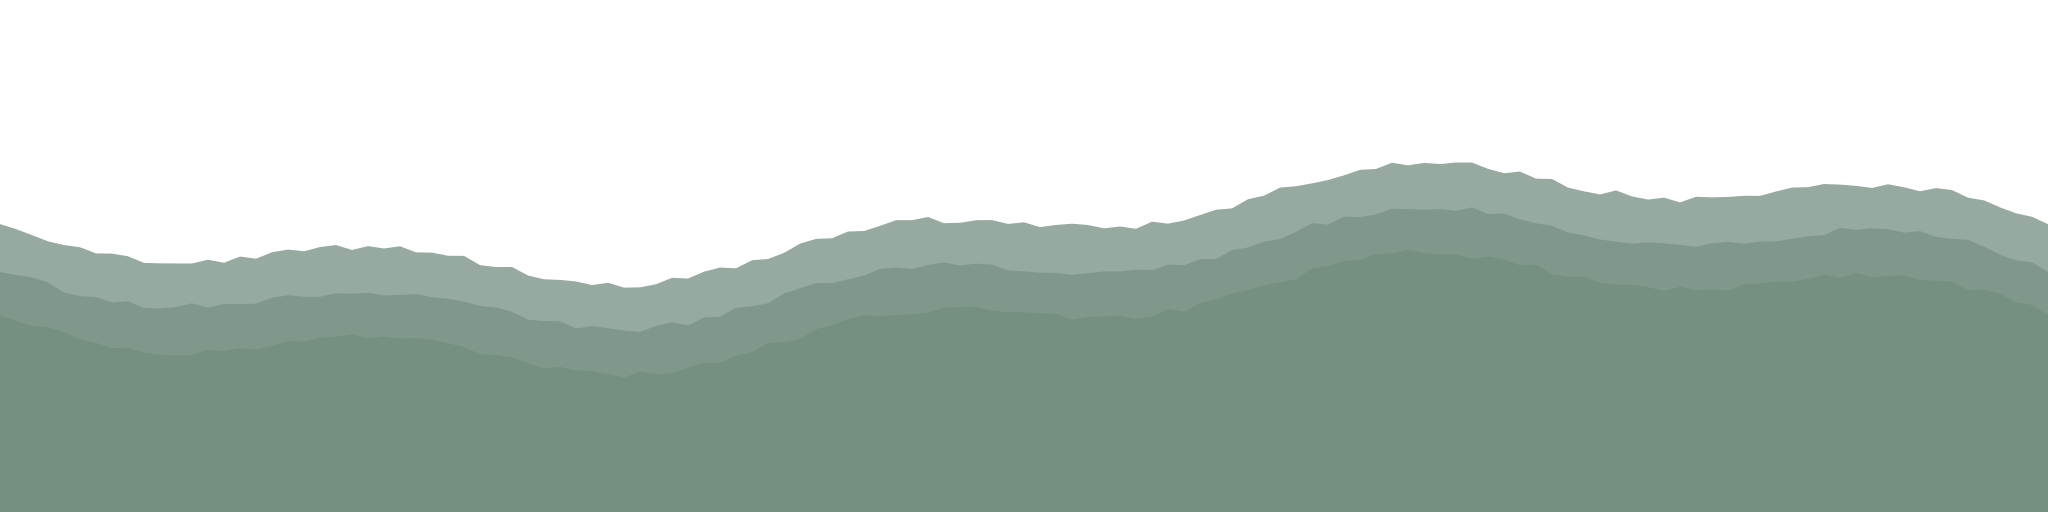
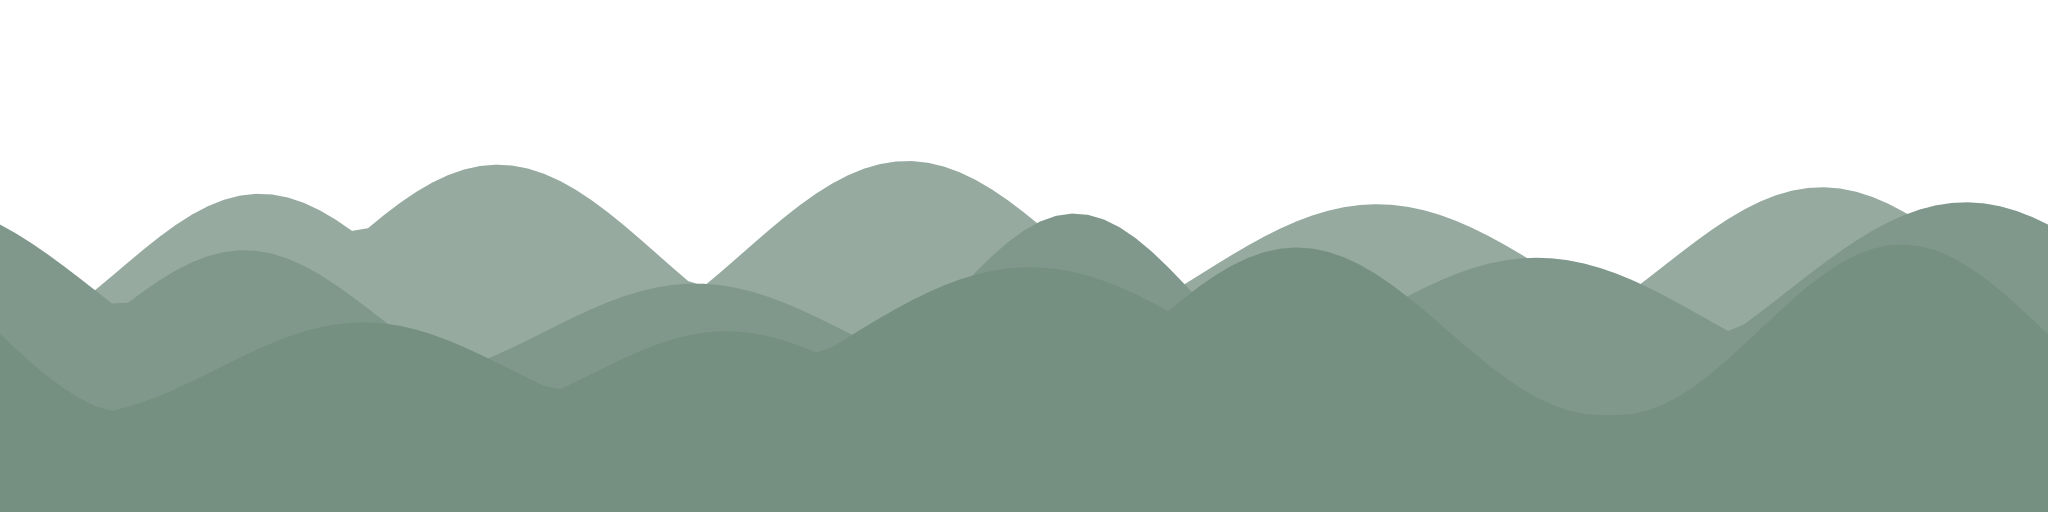
fix(render): compose independent river horizon ridges

diff --git a/tools/experiments/far-backdrop-data.js b/tools/experiments/far-backdrop-data.js
@@ -7,13 +7,15 @@ export function backdropProfile(biome,layer){
  const step=biome==='savanna'?8:16,r=random(1471+index*193+layer*277),jitter=Array.from({length:2048/step},()=>r()*7),points=[];
  // Broad separated ridges and short mesa caps, independently composed per layer.
  // Avoid three phase-aligned sine waves that read as parallel horizontal bands.
+ const riverRidges=biome==='grand_river'?Array.from({length:5},(_,i)=>({center:(i+.1+r()*.8)*2048/5,width:210+r()*170,height:100+r()*95-layer*10})):null;
  const ridges=biome==='savanna'?Array.from({length:7},(_,i)=>({center:(i+.15+r()*.7)*2048/7,width:125+r()*110,height:105+r()*95-layer*12,cap:.10+r()*.17})):null;
  for(let x=0;x<=2048;x+=step){const wrap=x%2048;let height;
   if(ridges){let relief=0;for(const ridge of ridges){const dx=Math.min(Math.abs(wrap-ridge.center),2048-Math.abs(wrap-ridge.center)),p=dx/ridge.width;relief=Math.max(relief,ridge.height*(p<ridge.cap?1:Math.max(0,1-(p-ridge.cap)/(1-ridge.cap))));}height=315+layer*42-relief+Math.sin(wrap*Math.PI*2/2048*(5+layer)) * 3;}
+  else if(riverRidges){let relief=0;for(const ridge of riverRidges){const dx=Math.min(Math.abs(wrap-ridge.center),2048-Math.abs(wrap-ridge.center)),p=dx/ridge.width;relief=Math.max(relief,p<1?ridge.height*(1+Math.cos(p*Math.PI))*.5:0);}height=345+layer*35-relief;}
   else if(biome==='canyons'||biome==='desert'){const mesa=Math.floor(wrap/64);height=170+(mesa%3)*43+jitter[Math.floor(wrap/step)]+layer*55;}
   else if(biome==='volcanoes'){let mountain=0;for(let peak=0;peak<8;peak++){const center=128+peak*256,dx=Math.min(Math.abs(wrap-center),2048-Math.abs(wrap-center));mountain=Math.max(mountain,Math.max(0,1-dx/150)*(140+20*Math.cos(peak)));}height=300-mountain+layer*34;}
   else height=220+Math.sin(wrap*Math.PI*2/2048)*46+Math.sin(wrap*Math.PI*2/512)*18+layer*45+jitter[Math.floor(wrap/step)];
-  points.push([x,biome==='savanna'?Number(height.toFixed(3)):height]);
+  points.push([x,(biome==='savanna'||riverRidges)?Number(height.toFixed(3)):height]);
  }
  return points;
 }

diff --git a/tests/far-backdrop-data.test.js b/tests/far-backdrop-data.test.js
@@ -17,3 +17,12 @@ test('savanna baked facets retain a solid body under the skyline instead of intr
 test('deployed backdrops match the offline generator and retain transparent sky at fixed resolution',async()=>{
  for(const biome of backdropBiomes){const actual=await fs.readFile(`public/assets/far-vegetation/${biome}-backdrop.webp`),expected=await sharp(Buffer.from(backdropSvg(biome))).webp({lossless:true,effort:4}).toBuffer();assert.deepEqual(actual,expected,biome);const {data,info}=await sharp(actual).raw().toBuffer({resolveWithObject:true});assert.equal(info.width,2048);assert.equal(info.height,512);assert.equal(info.channels,4);assert.ok(data.some((v,i)=>i%4===3&&v===0));assert.ok(data.some((v,i)=>i%4===3&&v===255));}
 });
+
+test('river skyline uses independent broad rolling relief without parallel low bands',()=>{
+ const a=backdropProfile('grand_river',0),b=backdropProfile('grand_river',1);
+ const delta=a.map((p,i)=>b[i][1]-p[1]);
+ assert.ok(Math.max(...delta)-Math.min(...delta)>100);
+ assert.ok(Math.max(...a.map(p=>p[1]))-Math.min(...a.map(p=>p[1]))>150);
+ // Rounded hills have gradual adjacent changes; no isolated thin vertical peaks.
+ assert.ok(a.slice(1).every((p,i)=>Math.abs(p[1]-a[i][1])<25));
+});

diff --git a/docs/qa/far-biome-integration/README.md b/docs/qa/far-biome-integration/README.md
@@ -44,33 +44,33 @@ A1/A2 drift is about 9%; B1 is nearly the same as A2. This demonstrates fewer su
 
 ## Native visual smoke checks (main b93df1a integrated)
 
-All files listed below come from one Mapungubwe village, seed 712, no gameplay saves. Four profiles are represented, not a full biome × culture × quality matrix. Native camera operations also clamp distance/height and may cross chunk borders; the JSON reports actual coordinates.
+All files listed below come from one Mapungubwe village, seed 712, no gameplay saves. Four profiles are represented, not a full biome Ã— culture Ã— quality matrix. Native camera operations also clamp distance/height and may cross chunk borders; the JSON reports actual coordinates.
 
 | Biome | Quality | Evidence | Observation |
 | --- | --- | --- | --- |
 | Sabana | Medium | `savanna-tree-only-horizon-day/night.png` | Low horizon; backdrop remains too flat/blue. This is an acceptance counterexample. |
-| Gran Cañón | Medium | `canyon-tree-only-day/night.json/png`, `canyon-tree-only-orbit.png` | River and cliff terrain retained. Two resident species. Horizon-button view could enter a cliff; orbit view exposes mesa backdrop. |
+| Gran CaÃ±Ã³n | Medium | `canyon-tree-only-day/night.json/png`, `canyon-tree-only-orbit.png` | River and cliff terrain retained. Two resident species. Horizon-button view could enter a cliff; orbit view exposes mesa backdrop. |
 | Volcanes | Medium | `volcano-tree-only-day/night.json/png`, `volcano-tree-only-moved.png` | Lateral 96 m movement changes region to 192:0; native preparation settles without GL errors. Nearby baked billboards can visibly simplify the silhouette while models prepare. |
 | Manglares | High | `mangrove-high-tree-only-day/night.json/png` | 49 exact terrains and 25 prop chunks; water channels/moss remain native. Angular movement and night phase tested. |
-| Gran Río | Low | `river-low-tree-only-day/dusk.json/png` | Original river near terrain; angular movement and mixed day/night atlas phase. Coarse far shoreline remains approximate. |
+| Gran RÃo | Low | `river-low-tree-only-day/dusk.json/png` | Original river near terrain; angular movement and mixed day/night atlas phase. Coarse far shoreline remains approximate. |
 | Desierto | Very low | `desert-min-tree-only-day/night.json/png`, `desert-min-tree-only-horizon.png` | Native dunes/coarse horizon retained; mesa backdrop visible. Sparse tree population in reference scene. |
 
-Recorded JSON checks show zero world/shader/WebGL errors; no missing-biome asset exception. Static captures are not proof of imperceptible animated transitions. Native 8° atlas elevation is appropriate for distant trees, but the 40–60 m candidate transition remains visibly simplified in elevated/teleported views. Remaining acceptance work: slow approach/retreat and lateral/orbital recordings, delayed-chunk perception, precise far shorelines, backdrop art/composition, independent performance repetitions, mobile/device memory and other cultures. The optional loader is connected but **normal gameplay remains OFF**.
+Recorded JSON checks show zero world/shader/WebGL errors; no missing-biome asset exception. Static captures are not proof of imperceptible animated transitions. Native 8Â° atlas elevation is appropriate for distant trees, but the 40â€“60 m candidate transition remains visibly simplified in elevated/teleported views. Remaining acceptance work: slow approach/retreat and lateral/orbital recordings, delayed-chunk perception, precise far shorelines, backdrop art/composition, independent performance repetitions, mobile/device memory and other cultures. The optional loader is connected but **normal gameplay remains OFF**.
 
-Runtime atlas storage is bounded by active biome (eight 1024² atlases for four species or four for canyon), plus one backdrop. Cancellation tests release every borrowed/owned late resource exactly once; those tests do not measure browser caches, driver residency, decoded CPU images or total game RAM. Distributed atlas transfer is 20,450,296 bytes for all 22 species, not 235 MiB of simultaneous GPU textures.
+Runtime atlas storage is bounded by active biome (eight 1024Â² atlases for four species or four for canyon), plus one backdrop. Cancellation tests release every borrowed/owned late resource exactly once; those tests do not measure browser caches, driver residency, decoded CPU images or total game RAM. Distributed atlas transfer is 20,450,296 bytes for all 22 species, not 235 MiB of simultaneous GPU textures.
 
 ## Slow approach counterexample (after 287099e)
 
 The fixture now has 20-second native-camera paths for approach/retreat, orbit and lateral movement; it selects an unsuppressed slot-0 tree and reports completion and unchanged game state. Only approach has been run so far. `savanna-slow-approach-mid.png` shows selected tree `0:9:2` during approach/retreat with readiness zero; `savanna-slow-approach.json` records final state and preparation counters. The final view is far again, so readiness zero there alone is expected and does not prove a failed near handoff.
 
-The same report contains approximately 100 cancelled preparations per species over the movement versus 10–12 useful completions. This repeated cancellation is an acceptance blocker to investigate, not a successful motion test. One candidate cause is texture preparation re-yielding between already initialized textures on each native packing generation; that hypothesis still needs a repeated native path after correction. No FPS/cost claim is made for this path.
+The same report contains approximately 100 cancelled preparations per species over the movement versus 10â€“12 useful completions. This repeated cancellation is an acceptance blocker to investigate, not a successful motion test. One candidate cause is texture preparation re-yielding between already initialized textures on each native packing generation; that hypothesis still needs a repeated native path after correction. No FPS/cost claim is made for this path.
 
 
 ## Warm-texture preparation isolation (5965323 + temporary alias)
 
 A temporary Vite alias replaced only the GPU preparation helper, leaving the source revision under the serial full-test suite unchanged. The candidate remembers initialized texture wrapper/source versions per renderer, invalidates on disposal/context restoration and keeps compile, zero-pixel draw and fence for every new native packing. Fourteen isolated tests pass, including late cancellation, failed upload, context loss/restoration and listener ownership.
 
-`savanna-cache-approach.json` repeats exactly the same slot-0 tree `0:9:2`, 20-second 140→25→140 m path. The selected tree reaches readiness 1 first at 10.216 s; only 28 of 164 near frames (≤40 m) have readiness 1. Useful preparations at completion: 21/20/19/17; cancelled: 95/89/93/91. No game-state or WebGL errors. These counts show increased useful completions but **do not resolve the continuous-motion transition**.
+`savanna-cache-approach.json` repeats exactly the same slot-0 tree `0:9:2`, 20-second 140â†’25â†’140 m path. The selected tree reaches readiness 1 first at 10.216 s; only 28 of 164 near frames (â‰¤40 m) have readiness 1. Useful preparations at completion: 21/20/19/17; cancelled: 95/89/93/91. No game-state or WebGL errors. These counts show increased useful completions but **do not resolve the continuous-motion transition**.
 
 `savanna-cache-hold.json` adds a three-second stationary hold at 25 m. Readiness 1 occurs first at 10.203 s, with 115 of 261 near frames fully ready. Useful preparations: 32/28/28/23; cancelled: 76/73/74/75. This verifies that the handoff can settle when stationary; renewed motion still invalidates it. Counters are not a performance benchmark, and the duration/near-frame counts differ between these two paths.
 
@@ -87,13 +87,13 @@ The signature now includes only color renderables for the corresponding tree slo
 
 The serial full suite on the preceding runtime/base (main b93df1a integrated, before warm-cache and Tinify merge) completed **2632/2632 PASS**, no skips, 2447538 ms. After integrating main bccdd74 and the cache/signature changes: **164 targeted tests PASS**, 24 cache/signature/owner tests PASS, build PASS, web package **640 files / 399497252 bytes / 859 relative links / 20 runtime GLBs**. Those checks do not replace the remaining motion and biome visual acceptance.
 
-After merging main d048270 (voices/cards and village atlas compression), **171 targeted tests PASS**, build PASS and package validation PASS: **694 files / 405571330 bytes / 859 relative links / 20 runtime GLBs**, including the voice hashes. The native orbital/lateral fixture now runs at 40 m rather than 82.5 m, so it exercises the 40–60 m candidate transition. This fixture change is not a completed visual test.
+After merging main d048270 (voices/cards and village atlas compression), **171 targeted tests PASS**, build PASS and package validation PASS: **694 files / 405571330 bytes / 859 relative links / 20 runtime GLBs**, including the voice hashes. The native orbital/lateral fixture now runs at 40 m rather than 82.5 m, so it exercises the 40â€“60 m candidate transition. This fixture change is not a completed visual test.
 
 Shortened prop residency also removes native prop casters outside that radius. Zero-color compaction preserves shadows inside the retained prop region, and native terrain/water remain exact; this does not establish identical shadows from trees beyond the shortened region. The impostors themselves do not cast dynamic shadows. This distinction is a visual acceptance limit of the shorter-radius candidate and must accompany its earlier measurements.
 
 ## Real-source motion and per-LOD counterexample (d4bde94)
 
-`savanna-native-approach.json` uses source runtime on port 5192 after main d048270, not the temporary alias. Its 23-second approach/retreat reaches 25 m: 216/259 near frames ready, two readiness descents, unchanged game state and zero GL/errors. `savanna-native-orbit.json/png` completes a 20-second orbit at 40 m but records six descents. `savanna-native-lateral.json/png` completes at 40–44.7 m, ends ready and keeps state unchanged; its ≤40 m counter includes only one frame and cannot establish stability of the whole transition. These results are not accepted as uninterrupted handoff.
+`savanna-native-approach.json` uses source runtime on port 5192 after main d048270, not the temporary alias. Its 23-second approach/retreat reaches 25 m: 216/259 near frames ready, two readiness descents, unchanged game state and zero GL/errors. `savanna-native-orbit.json/png` completes a 20-second orbit at 40 m but records six descents. `savanna-native-lateral.json/png` completes at 40â€“44.7 m, ends ready and keeps state unchanged; its â‰¤40 m counter includes only one frame and cannot establish stability of the whole transition. These results are not accepted as uninterrupted handoff.
 
 `savanna-native-orbit-diagnosis.json` is an explicitly **partial** diagnostic recording: it was closed before the path completed. Its bounded traces show physical CPU coverage remaining present while packing/resource proofs are invalidated. The same species' unrelated LOD geometry can change while the selected near LOD stays unchanged.
 
@@ -109,7 +109,7 @@ A further candidate retains a previously prepared native tree representation in 
 
 `savanna-standby-quiet.json` repeats the static scene with that guard: all four species report zero standby trees drawn, with 54 calls / 805743 triangles. This proves absence of static fallback duplication in this view, not equivalent frame time.
 
-`savanna-standby-approach.json` completes the same native-source 23-second 140→25→140 m path with a three-second hold: **263/263 near frames and 355/355 transition frames ready, zero readiness descents**, unchanged logical state and no reported errors. The end screenshot is a far retreat view, not a close-up handoff proof. Two reusable banks per species estimate 7,624,632 bytes (7.27 MiB) of additional owned GPU attributes/indices/instance storage after this movement. This excludes materials, driver overhead, decoded images and CPU memory; no additional atlas textures are owned by the standby. The former failed paths remain evidence of earlier variants.
+`savanna-standby-approach.json` completes the same native-source 23-second 140â†’25â†’140 m path with a three-second hold: **263/263 near frames and 355/355 transition frames ready, zero readiness descents**, unchanged logical state and no reported errors. The end screenshot is a far retreat view, not a close-up handoff proof. Two reusable banks per species estimate 7,624,632 bytes (7.27 MiB) of additional owned GPU attributes/indices/instance storage after this movement. This excludes materials, driver overhead, decoded images and CPU memory; no additional atlas textures are owned by the standby. The former failed paths remain evidence of earlier variants.
 
 This is one successful approach repetition only. Orbital/lateral repetition, other biomes/phases, visible silhouette matching, ownership/disposal and fresh combined CPU/GPU cost remain acceptance work. Normal gameplay remains OFF; earlier ABBA results do not apply to this new bank recipe.
 
@@ -122,22 +122,22 @@ The real-source repetition completes all paths with unchanged logical state, zer
 | Path | Fully ready transition frames | Initial readiness | Evidence |
 | --- | --- | --- | --- |
 | Day orbit, 40 m | 486/511 | 1.150 s | `savanna-standby-orbit.json/png` |
-| Day lateral, 40–44.7 m | 467/494 | 1.282 s | `savanna-standby-lateral.json/png` |
+| Day lateral, 40â€“44.7 m | 467/494 | 1.282 s | `savanna-standby-lateral.json/png` |
 | Warm night orbit, 40 m | 514/514 | First frame | `savanna-standby-night-orbit.json/png` |
 
-Initial unready frames retain the impostor while preparation/fade completes; this is not instant native readiness. Floating-point rounding makes the orbital ≤40 m counter include only part of the path and the lateral ≤40 m counter zero, so the whole-path comparison uses ≤60 m transition frames. This repetition resolves the prior measured descents for these three Sabana paths; it does not establish all-biome acceptance or a combined cost improvement. The captured flat/cyan backdrop is still a visual counterexample.
+Initial unready frames retain the impostor while preparation/fade completes; this is not instant native readiness. Floating-point rounding makes the orbital â‰¤40 m counter include only part of the path and the lateral â‰¤40 m counter zero, so the whole-path comparison uses â‰¤60 m transition frames. This repetition resolves the prior measured descents for these three Sabana paths; it does not establish all-biome acceptance or a combined cost improvement. The captured flat/cyan backdrop is still a visual counterexample.
 
-A subsequent offline-only backdrop candidate replaces Sabana's parallel waves with independently composed broad ridges/mesa caps, warm muted colors and a 145 m decorative cylinder height instead of 80 m. It retains one 2048×512 RGBA atlas and the same shader/draw/vertex recipe; transfer increases by 2,218 bytes (14,246→16,464). Three generator tests verify deterministic seamless profiles, independent relief, and byte-for-byte regeneration of all six deployed alpha backdrops. Other biome assets remain byte-identical. Native composition acceptance of this candidate is still pending.
+A subsequent offline-only backdrop candidate replaces Sabana's parallel waves with independently composed broad ridges/mesa caps, warm muted colors and a 145 m decorative cylinder height instead of 80 m. It retains one 2048Ã—512 RGBA atlas and the same shader/draw/vertex recipe; transfer increases by 2,218 bytes (14,246â†’16,464). Three generator tests verify deterministic seamless profiles, independent relief, and byte-for-byte regeneration of all six deployed alpha backdrops. Other biome assets remain byte-identical. Native composition acceptance of this candidate is still pending.
 
 ## Relative retained-bank precision, native disposal and backdrop diagnosis (d9e485c)
 
-The retained native banks now keep frozen CPU matrices as Float64 and subtract a fixed local bank anchor before uploading Float32 translations. A focused test preserves fractional placement at coordinates ±100000000; this guarantee covers retained banks only, not all far-impostor or regional-ground coordinates. The native orbit repetition (`savanna-relative-bank-orbit.json`) records 510/533 ready transition frames and zero descents, unchanged state and no GL/errors.
+The retained native banks now keep frozen CPU matrices as Float64 and subtract a fixed local bank anchor before uploading Float32 translations. A focused test preserves fractional placement at coordinates Â±100000000; this guarantee covers retained banks only, not all far-impostor or regional-ground coordinates. The native orbit repetition (`savanna-relative-bank-orbit.json`) records 510/533 ready transition frames and zero descents, unchanged state and no GL/errors.
 
 `savanna-native-close.json` closes the owner in the actual native world: the previous 151 geometries / 64 textures become 131 / 54 while normal prop residency returns to 25 chunks. Owner removal and logical-state equality pass. The former bank allocation estimate was 6707076 bytes; resource counters reset only as owned resources really release. The net Three.js counter delta is not a measurement of total GPU/driver/CPU RAM, because native groups rebuild during restoration.
 
 The source atlas was explicitly inspected through its decoded texture image (`savanna-decoded-backdrop-preview.png`). Isolating the regional ground (`savanna-ground-isolated.json/png`) removes exactly one draw and 26010 triangles, but does not remove the pale backdrop band. This disproves the old-image/cache and far-ground explanations for that band. Ground/picking/navigation therefore remain unchanged.
 
-The subsequent Sabana-only art candidate reduces the fixed fog mix from .48 to .24, bakes low-contrast facets into the existing 2048×512 atlas, and reduces decorative cylinder height from145 to110. Other biome atlases/parameters remain unchanged. The atlas grows from16464 to46686 bytes; decoded allocation and shader texture/read/draw counts do not increase. Generator tests confirm opaque interiors below the skyline and byte-exact reproducibility. Inspect alpha images on a composed background: some viewers display discarded transparent RGB as gray bands/white seams, which are not holes in this atlas.
+The subsequent Sabana-only art candidate reduces the fixed fog mix from .48 to .24, bakes low-contrast facets into the existing 2048Ã—512 atlas, and reduces decorative cylinder height from145 to110. Other biome atlases/parameters remain unchanged. The atlas grows from16464 to46686 bytes; decoded allocation and shader texture/read/draw counts do not increase. Generator tests confirm opaque interiors below the skyline and byte-exact reproducibility. Inspect alpha images on a composed background: some viewers display discarded transparent RGB as gray bands/white seams, which are not holes in this atlas.
 
 `savanna-fog24-{day,night}.png` is the intermediate un-faceted145m candidate; `savanna-facets145-day.png` adds baked relief at145m; `savanna-facets110-{day,night}.png` is the current lower candidate, all captured at the same native horizon camera on5192. Day color and excessive prominence improve, but the backdrop remains compositionally simple; those images are intermediate review evidence, not concept-art acceptance or a performance claim. The experiment remains OFF in normal gameplay. Twelve focused owner/backdrop tests pass; latest combined cost, other-biome motion and final visual acceptance are still pending.
 
@@ -147,19 +147,19 @@ Volcanes completes native-source approach with320/320 transition frames ready, z
 
 The fixture now permits explicit `slot` selection and audits all trees within40m independently of the selected path tree. Two focused tests catch other-species regressions, near omissions and bounded traces while distinguishing initial preparation and objects left behind by the camera. This QA instrumentation is not enabled in gameplay or ABBA measurements.
 
-The expanded Gran Cañón slot1 approach (`canyon-retained-approach-counterexample.json/png`) completes but records only290/420 ready transition frames and a descent at51.971m with absent physical coverage. Another tree loses coverage at39.762m; the nearby audit has495 observations/342 ready, one descent and no omissions. The experimental adapter deliberately filters physical chunks by frustum/residency, so these observations require separating actual loss of on-screen representation from leaving its selected frustum. The added physical trace reports native chunk bounds, residency, frustum and LOD orders on each descent. No coverage guard was relaxed and no acceptance conclusion is drawn before that repetition.
+The expanded Gran CaÃ±Ã³n slot1 approach (`canyon-retained-approach-counterexample.json/png`) completes but records only290/420 ready transition frames and a descent at51.971m with absent physical coverage. Another tree loses coverage at39.762m; the nearby audit has495 observations/342 ready, one descent and no omissions. The experimental adapter deliberately filters physical chunks by frustum/residency, so these observations require separating actual loss of on-screen representation from leaving its selected frustum. The added physical trace reports native chunk bounds, residency, frustum and LOD orders on each descent. No coverage guard was relaxed and no acceptance conclusion is drawn before that repetition.
 
 After merging main through831bd40 and its subsequent QA-only experiment archive, build and package PASS:694files/403526145bytes/859relative links/20runtimeGLBs including current voice/audio hashes. The initial package attempt ran before Vite completed and is discarded; the repeated check after build completion is the reported result.
 ## Circular native prop residency fixes the on-screen canyon descent
 
-`canyon-retained-physical-diagnosis.json` repeats the failed path with actual native references. The selected52.165m tree is in frustum and a packed LOD1 of a loaded chunk, but `farPropsVisible=false`: the9chunk square ends as close as48m and therefore cannot cover a40–60m handoff. The other39.786m tree retains native LOD1 and prop residency but its chunk is outside the view frustum. Neither case is obsolete GPU packing; the guards correctly reject absent physical selection.
+`canyon-retained-physical-diagnosis.json` repeats the failed path with actual native references. The selected52.165m tree is in frustum and a packed LOD1 of a loaded chunk, but `farPropsVisible=false`: the9chunk square ends as close as48m and therefore cannot cover a40â€“60m handoff. The other39.786m tree retains native LOD1 and prop residency but its chunk is outside the view frustum. Neither case is obsolete GPU packing; the guards correctly reject absent physical selection.
 
 The next candidate unions the original square with a horizontal circle intersecting chunk rectangles at `end + transitionMargin` (60+8m for this QA). This is arithmetic only, with no terrain sampling or procedural regeneration. The exact25terrain chunks, picking, navigation and original raid border remain unchanged. The owner restores the preceding transition distance on disable/dispose. Twenty focused boundary/ownership/navigation/stream tests pass.
 
 `canyon-circular-approach.json/png` completes the identical selected-slot path with392/409 ready transition frames, **zero selected-tree descents**, unchanged state and no reported GL/errors. Initial17 frames keep the impostor during preparation/fade; do not call this immediate readiness. The all-near trace still retains one other-tree drop at39.786m explicitly confirmed outside the frustum, with prop residency and native LOD1 preserved. Final native prop residency is12chunks; count varies with eye position. This is a new cost variant, so earlier9chunk ABBA results must not be attributed to it. Further biome/motion/art and combined cost acceptance remain pending.
 ## Combined cost of all-prop circular residency (4784baf)
 
-`savanna-circular-abba.json` measures the complete native scene at1280×720 with source4784baf, media/Mapungubwe/seed712, paused daytime, exact terrain and current retained banks/backdrop. Each A/B/B/A lot has45 warmup and120 measuredframes. GPU timer queries are supported,480 samples, no disjoint/context loss/discard/pending query; state remains unchanged and errors0.
+`savanna-circular-abba.json` measures the complete native scene at1280Ã—720 with source4784baf, media/Mapungubwe/seed712, paused daytime, exact terrain and current retained banks/backdrop. Each A/B/B/A lot has45 warmup and120 measuredframes. GPU timer queries are supported,480 samples, no disjoint/context loss/discard/pending query; state remains unchanged and errors0.
 
 | Lot | GPU p50 ms | CPU render p50 ms | Draws | Triangles |
 | --- | --- | --- | --- | --- |
@@ -173,7 +173,7 @@ A baselines drift3.7%; B is close to their average and does not demonstrate GPU 
 `canyon-tree-circle-approach.json` repeats the same path after this separation:385/406 ready transition frames, zero selected-tree descents, unchanged state/errors0. The one other-tree decline remains explicitly outside frustum. Final residency is9small-prop chunks/12tree chunks/25exact terrain-picking chunks. Native combined cost for this tree-only circle is still pending; the all-prop circular measurement cannot describe it.
 ## Combined cost of tree-only circular residency (f2302ca)
 
-`savanna-tree-circle-abba.json` is a fresh native measurement with the same paused seed712 Sabana/Mapungubwe/media camera, 1280×720 CSS viewport and 1600×900 world framebuffer. Each lot has45 warmup and120 measured frames; all480 GPU queries resolve without disjoint/discard/context loss, and logical state remains identical.
+`savanna-tree-circle-abba.json` is a fresh native measurement with the same paused seed712 Sabana/Mapungubwe/media camera, 1280Ã—720 CSS viewport and 1600Ã—900 world framebuffer. Each lot has45 warmup and120 measured frames; all480 GPU queries resolve without disjoint/discard/context loss, and logical state remains identical.
 
 | Lot | GPU p50 ms | CPU render p50 ms | Draws | Triangles |
 | --- | --- | --- | --- | --- |
@@ -192,23 +192,23 @@ The following native paths use exact terrain/picking/navigation and tree-only ci
 | --- | --- | --- | --- |
 | Manglares / day / approach |267/267|0|`mangroves-tree-circle-approach.json/png`|
 | Manglares / night / orbit |490/490|0|`mangroves-tree-circle-night-orbit.json/png`|
-| Gran Río / day / lateral |562/594|0|`river-tree-circle-lateral.json/png`|
-| Gran Río / dusk / approach |276/277|0|`river-tree-circle-dusk-approach.json/png`|
+| Gran RÃo / day / lateral |562/594|0|`river-tree-circle-lateral.json/png`|
+| Gran RÃo / dusk / approach |276/277|0|`river-tree-circle-dusk-approach.json/png`|
 | Desierto / low / day / approach |606/606|0|`desert-low-tree-circle-approach.json/png`|
 
 All five paths preserve logical state and report zero errors. Initial unready frames keep the impostor while native preparation completes. All-near readiness traces record16/5/12/15/1 declines respectively, each with `frustum=false`, tree residency preserved and native LOD orders still present. These are retained explicitly rather than hidden or counted as on-screen readiness failures. The all-near counter is not an assertion that every tree in every viewport was ready from its initial observation.
 
-These checks expand motion evidence to all six biomes across this and earlier source revisions, but do not validate every species, every quality or pixel-equivalent lighting/silhouette matching. Manglares' final horizon remains visibly flat; the Gran Río close tree is a native model but distant dithering is noticeable in a static capture. Backdrop/atmospheric composition and remaining species/quality checks still block activation and an acceptance PR. No gain is attributed to these paths; the GPU cost evidence remains the single Sabana ABBA above.
+These checks expand motion evidence to all six biomes across this and earlier source revisions, but do not validate every species, every quality or pixel-equivalent lighting/silhouette matching. Manglares' final horizon remains visibly flat; the Gran RÃo close tree is a native model but distant dithering is noticeable in a static capture. Backdrop/atmospheric composition and remaining species/quality checks still block activation and an acceptance PR. No gain is attributed to these paths; the GPU cost evidence remains the single Sabana ABBA above.
 
 ## Configurable atmosphere candidate (not visually accepted)
 
-The experimental adapter and decorative backdrop now accept a shared validated day/night fog palette and fog start/end distances. Defaults remain the former160/380m and#b5d9e8/#263747, preserving earlier evidence. QA parameters `fog-start=30&fog-end=300&fog-palette=sky` select a candidate that introduces a small haze in the40–60m handoff and integrates distant ground before its regional edge. This changes only existing linear-fog uniform values, with no new shader pass, noise or texture reads.
+The experimental adapter and decorative backdrop now accept a shared validated day/night fog palette and fog start/end distances. Defaults remain the former160/380m and#b5d9e8/#263747, preserving earlier evidence. QA parameters `fog-start=30&fog-end=300&fog-palette=sky` select a candidate that introduces a small haze in the40â€“60m handoff and integrates distant ground before its regional edge. This changes only existing linear-fog uniform values, with no new shader pass, noise or texture reads.
 
 `node tools/experiments/sample-far-sky-horizon.mjs` decodes the existing RGBE panoramas offline and applies the current sky exposure/gamma/saturation formula at sampled horizontal rows. The equatorial mean approximates day#b3b5c0/night#3f4140. It is an approximation over horizontal directions, excludes procedural stars and does not assert exact matching to every camera ray. The QA palette is passed to terrain/impostors and decorative backdrop together;12 focused atmosphere/backdrop/ownership checks pass. Native visual and combined-cost comparison of this candidate remains pending; normal gameplay stays OFF.
 
 ## Native atmosphere and near handoff comparison (4ffc73f /6001b5d)
 
-`savanna-fog-baseline-current-{day,night}.json/png` repeats the old fog with current main's camera intent fix. `savanna-skyfog30-{day,night}.json/png` uses30–300m and the sampled sky palette. Their camera arrays are exactly equal:[51.54259579985163,14.02192278906814,14.848751295665068]. This avoids comparing different poses after the main camera fix. The candidate reduces the previous cyan grading, but leaves a flat lower decorative band and overly bright blue night mountains.
+`savanna-fog-baseline-current-{day,night}.json/png` repeats the old fog with current main's camera intent fix. `savanna-skyfog30-{day,night}.json/png` uses30â€“300m and the sampled sky palette. Their camera arrays are exactly equal:[51.54259579985163,14.02192278906814,14.848751295665068]. This avoids comparing different poses after the main camera fix. The candidate reduces the previous cyan grading, but leaves a flat lower decorative band and overly bright blue night mountains.
 
 `savanna-skyfog30-near25.json/png` is actual near-handoff evidence, captured during hold10 at age18.9125 with exactly25m minimum distance and selected readiness1. The matching native tree is fully3D. Its complete30s approach (`savanna-skyfog30-approach.json`) has513/528 fully ready transition frames, zero selected descents, state identical and errors0. This is not proof of every other tree/species or performance.
 
@@ -216,7 +216,7 @@ A subsequent soft-grade option (`backdrop-grade=soft`, source6001b5d) retains on
 
 ## Cost repetition of soft atmosphere (377a6b8)
 
-`savanna-softfog-abba.json` measures the complete tree-circle variant plus30–300m sky palette and soft decorative grading in the initial native seed712/media/Mapungubwe view at1280×720 CSS /1600×900 framebuffer. All480 GPU queries resolve without disjoint or discarded samples; state is unchanged and errors0.
+`savanna-softfog-abba.json` measures the complete tree-circle variant plus30â€“300m sky palette and soft decorative grading in the initial native seed712/media/Mapungubwe view at1280Ã—720 CSS /1600Ã—900 framebuffer. All480 GPU queries resolve without disjoint or discarded samples; state is unchanged and errors0.
 
 | Lot | GPU p50 ms | CPU render p50 ms | Draws | Triangles |
 | --- | --- | --- | --- | --- |
@@ -251,16 +251,20 @@ All paths preserve state/errors0. All-near declines10/0/11 retain native orders/
 
 42 targeted atmosphere/backdrop/ownership/native grouping/shadow/transition/terrain-camera checks PASS (`current-directed-tests.txt`). Build PASS (`current-build.txt`); package PASS (`current-package.txt`):694files/403539773bytes/859relative links/20runtimeGLBs, including current Opus/voice/image aliases. The full-suite2632PASS record predates these changes and is not represented as validation of this source. Remaining native species/biome and optional atmosphere acceptance work is still required before PR.
 
-## Remaining Sabana and Gran Río species (b449105)
+## Remaining Sabana and Gran RÃo species (b449105)
 
 | Biome / quality / slot / phase / path | Ready transition frames | Selected descents | Evidence |
 | --- | --- | --- | --- |
 | Sabana / very low /2 / dusk / lateral |638/669|0|`savanna-very-low-slot2-dusk-lateral.json`|
 | Sabana / very low /3 / day / approach |385/387|0|`savanna-very-low-slot3-day-approach.json`|
-| Gran Río / low /1 / night / orbit |802/840|0|`river-low-slot1-night-orbit.json`|
-| Gran Río / low /2 / dusk / lateral |806/806|0|`river-low-slot2-dusk-lateral.json`|
-| Gran Río / low /3 / day / approach |437/437|0|`river-low-slot3-day-approach.json`|
+| Gran RÃo / low /1 / night / orbit |802/840|0|`river-low-slot1-night-orbit.json`|
+| Gran RÃo / low /2 / dusk / lateral |806/806|0|`river-low-slot2-dusk-lateral.json`|
+| Gran RÃo / low /3 / day / approach |437/437|0|`river-low-slot3-day-approach.json`|
 
-All five paths report errors0 and identical state. Nearby declines0/12/4/10/15 respectively are outside the frustum, with native residency/orders preserved. Combined with prior slot0 evidence, all four slots of Sabana/Manglares/Gran Río now have selected-tree native motion evidence. With earlier Volcanes0, Desierto0 and Canyon1 paths,15 of22 slots have such evidence; seven remain (Volcanes1–3, Desierto1–3, Canyon0). This is not a complete phase×quality matrix or final art approval.
+All five paths report errors0 and identical state. Nearby declines0/12/4/10/15 respectively are outside the frustum, with native residency/orders preserved. Combined with prior slot0 evidence, all four slots of Sabana/Manglares/Gran RÃo now have selected-tree native motion evidence. With earlier Volcanes0, Desierto0 and Canyon1 paths,15 of22 slots have such evidence; seven remain (Volcanes1â€“3, Desierto1â€“3, Canyon0). This is not a complete phaseÃ—quality matrix or final art approval.
 
 `river-low-softfog-{day,night}.json/png` retains the open procedural distribution and fog but exposes a new decorative-art counterexample: its low, parallel wave profile reads as a thin horizontal wall against the sky. Native readiness success does not resolve this backdrop composition. It remains pending before acceptance.
+
+### Gran Río skyline revision (offline; native acceptance pending)
+
+The earlier `river-low-softfog-day/night` captures retain the thin horizontal backdrop counterexample. The new generator composes five independently seeded rounded ridges per layer, retaining the same 2048×512 atlas, cylinder height (85 m), draw call and shader recipe. It changes only the Gran Río backdrop image (14,490 → 14,760 bytes). Five generator tests pass, including periodic seams, independent relief, bounded slopes and byte-exact deployment. No native artistic or performance acceptance is claimed for this revision until it is viewed in the actual scene. Mangrove profiles remain flat marsh silhouettes.
